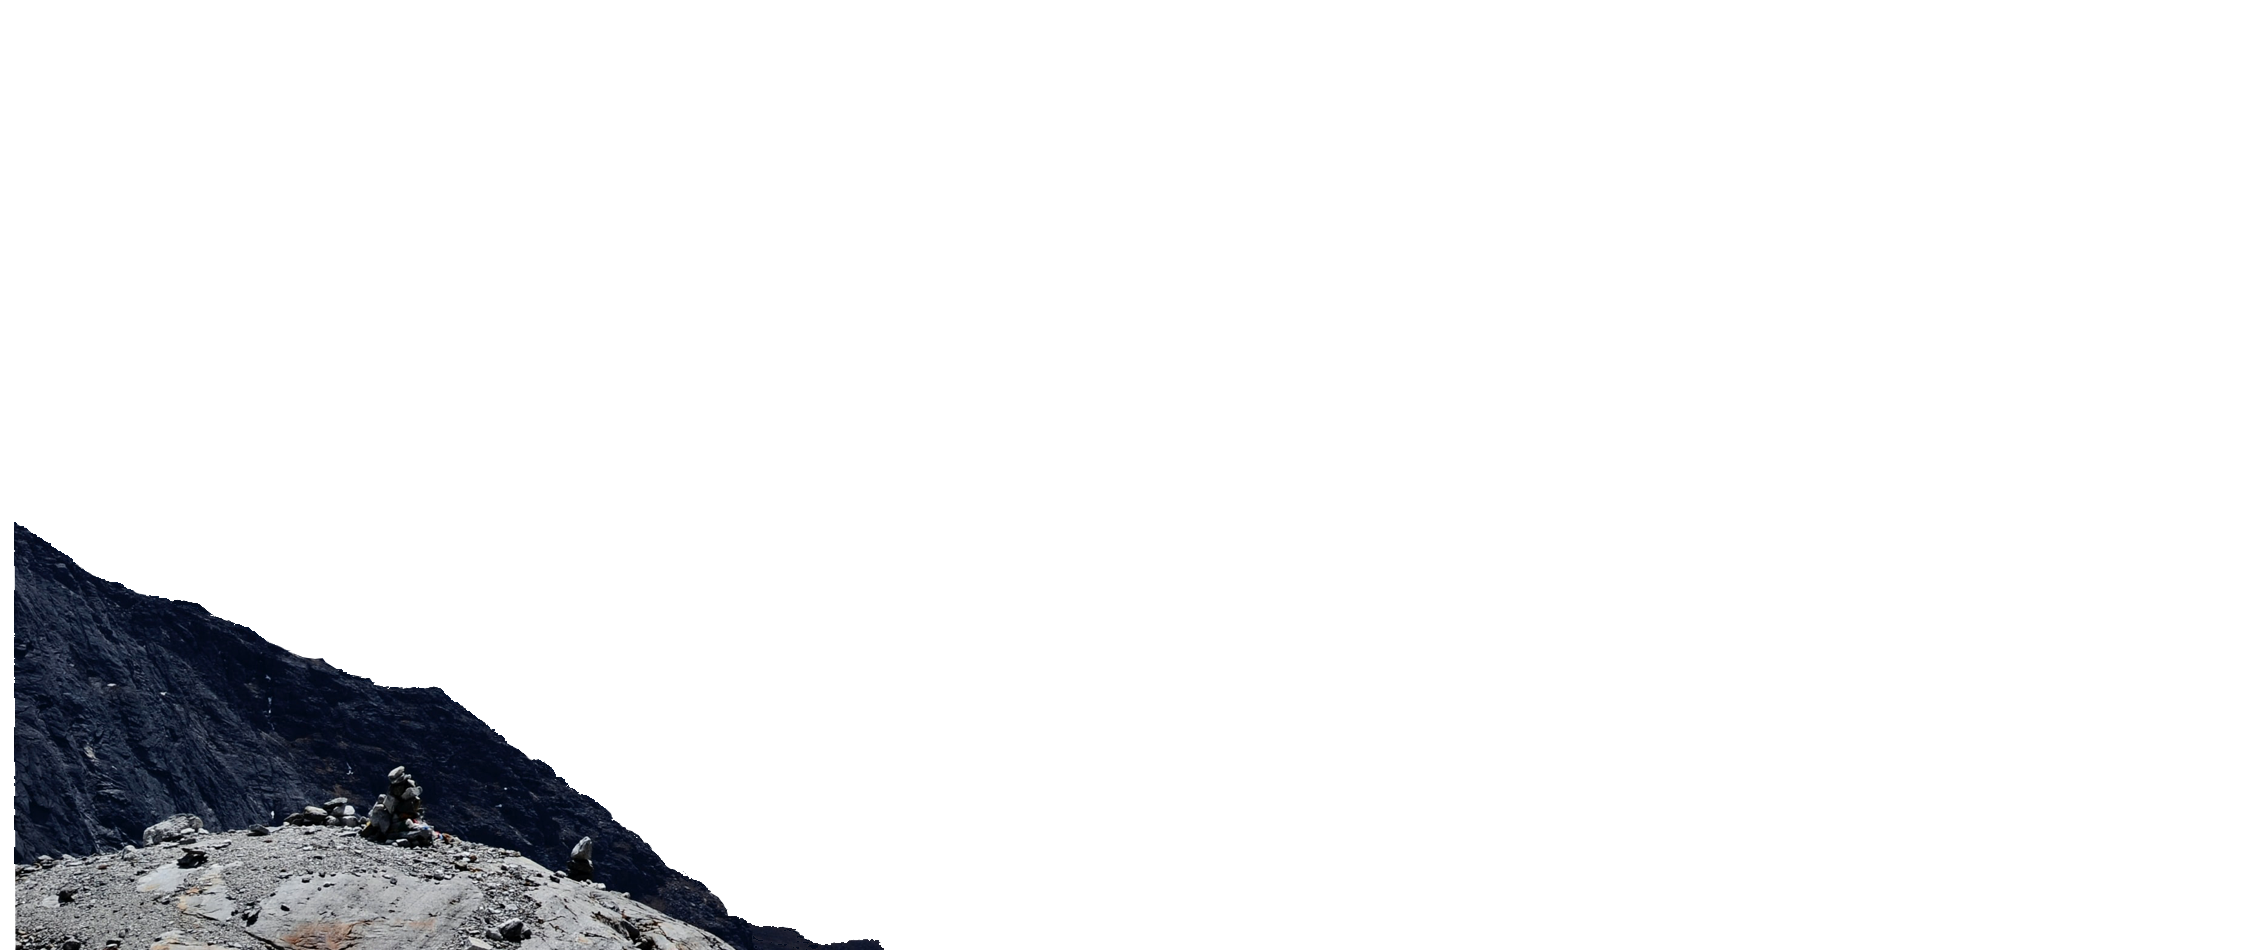
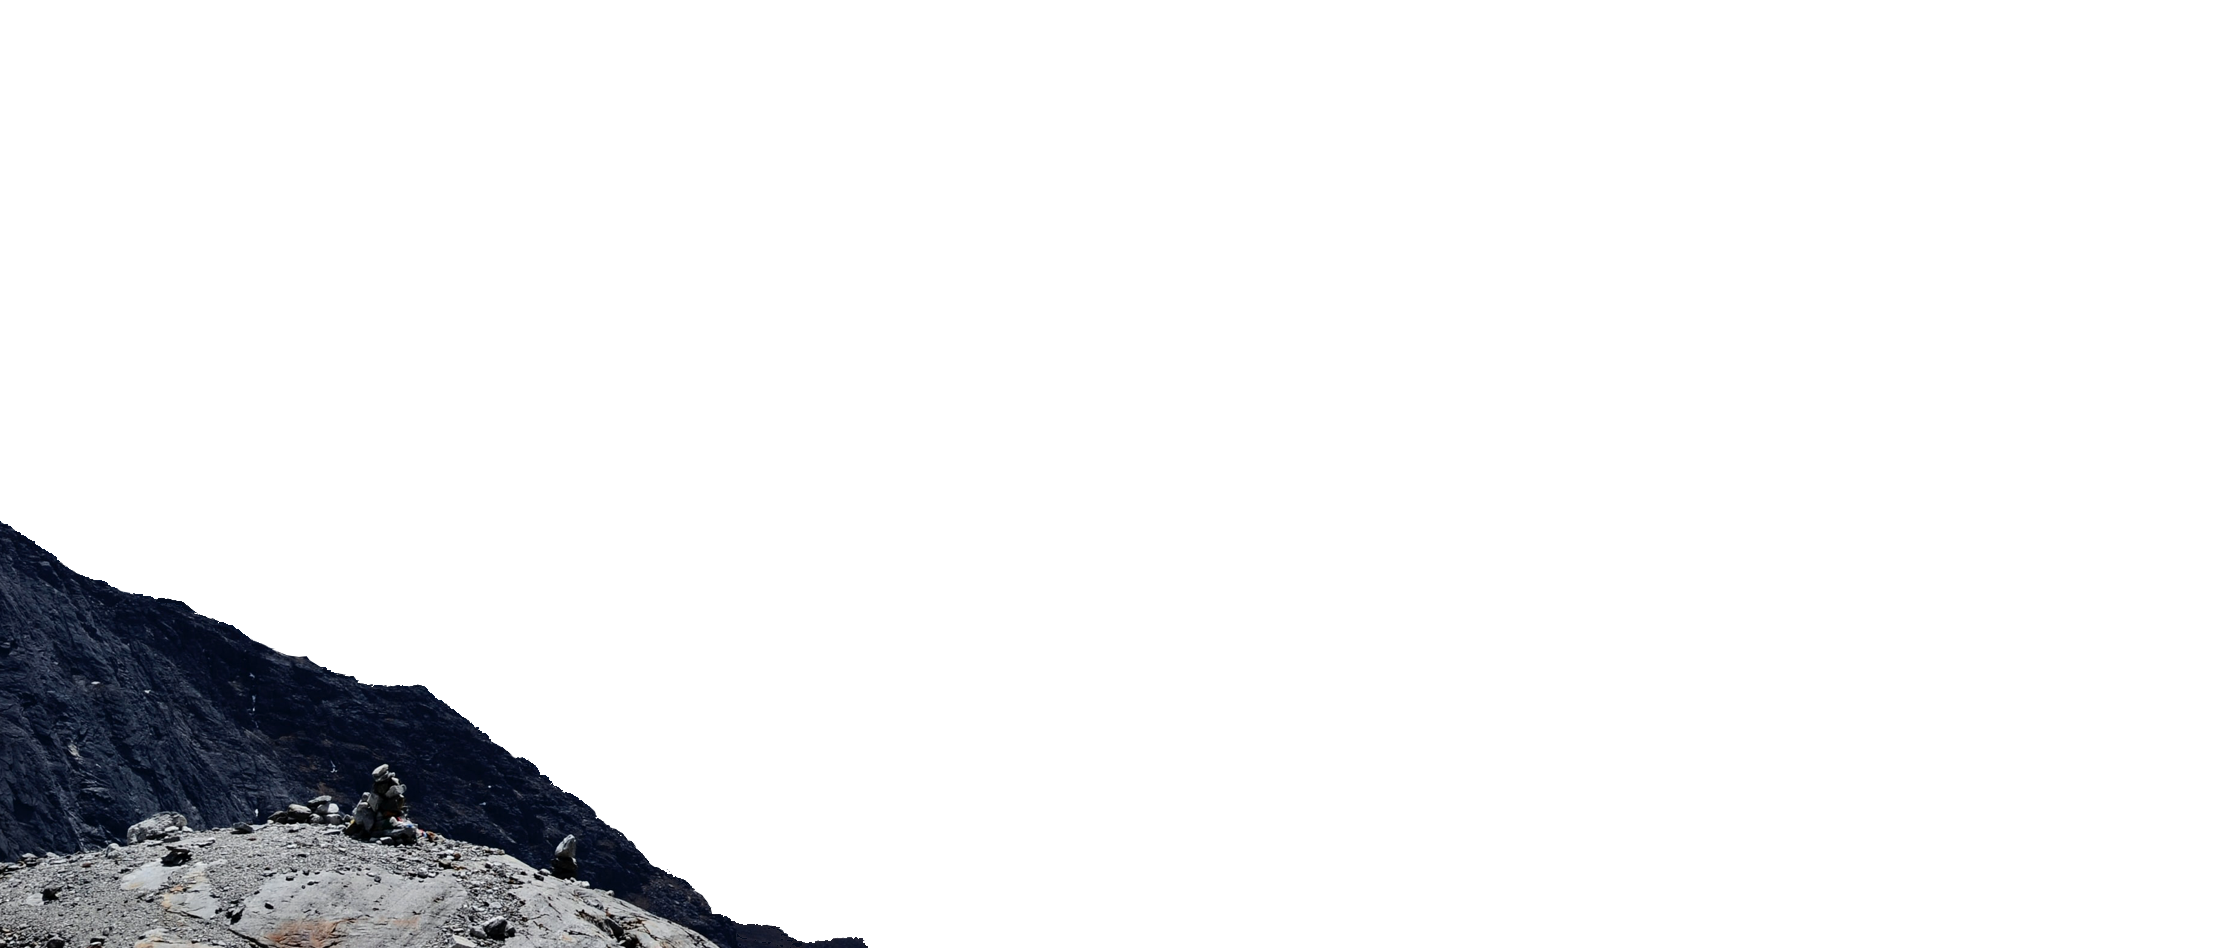
add changes to mountains and contact form

Changed region(s): [[0.0, 0.5506, 0.4006, 1.0]]

diff --git a/js/contact.js b/js/contact.js
@@ -1,69 +1,194 @@
-const windowWidth = window.innerWidth;
+// const windowWidth = window.innerWidth;
 
-const largerScreen = windowWidth > 2500;
+// const largerScreen = windowWidth > 2500;
 
-if (largerScreen) {
-  const tlConLarger = gsap.timeline({
-    scrollTrigger: {
-      trigger: "#contact",
-      scrub: true,
-      pin: true,
-      start: "top top",
-      end: "+=100%",
-    },
-  });
+// if (largerScreen) {
+//   const tlConLarger = gsap.timeline({
+//     scrollTrigger: {
+//       trigger: "#contact",
+//       scrub: true,
+//       pin: true,
+//       start: "top top",
+//       end: "+=100%",
+//     },
+//   });
 
-  tlConLarger.fromTo(".mountain1", { x: 2000, y: 300, autoAlpha: 1 }, { x: 152, y: 245, autoAlpha: 1, duration: 1 }, 0)
-    .fromTo(".mountain2", { x: -2500, y: 300, autoAlpha: 1 }, { x: -170, y: 245, autoAlpha: 1, duration: 1 }, 0)
-    .fromTo(".mountain3", { x: 2000, y: 300, autoAlpha: 1 }, { x: 152, y: 245, autoAlpha: 1, duration: 1 }, 1)
-    .fromTo(".mountain4", { x: 0, y: 1800, autoAlpha: 1 }, { x: 0, y: 245, autoAlpha: 1, duration: 1.5 }, 2)
-    .fromTo(".cardCon", { x: 0, y: 1500, autoAlpha: 1 }, { x: 0, y: 0, autoAlpha: 1, duration: 1.5 }, 3);
-} else {
-  const tlConSmaller = gsap.timeline({
-    scrollTrigger: {
-      trigger: "#contact",
-      scrub: true,
-      pin: true,
-      start: "top top",
-      end: "+=100%",
-    },
-  });
+//   tlConLarger.fromTo(".mountain1", { x: 2000, y: 300, autoAlpha: 1 }, { x: 152, y: 245, autoAlpha: 1, duration: 1 }, 0)
+//     .fromTo(".mountain2", { x: -2500, y: 300, autoAlpha: 1 }, { x: -170, y: 245, autoAlpha: 1, duration: 1 }, 0)
+//     .fromTo(".mountain3", { x: 2000, y: 300, autoAlpha: 1 }, { x: 152, y: 245, autoAlpha: 1, duration: 1 }, 1)
+//     .fromTo(".mountain4", { x: 0, y: 1800, autoAlpha: 1 }, { x: 0, y: 245, autoAlpha: 1, duration: 1.5 }, 2)
+//     .fromTo(".cardCon", { x: 0, y: 1500, autoAlpha: 1 }, { x: 0, y: 0, autoAlpha: 1, duration: 1.5 }, 3);
+// } else {
+//   const tlConSmaller = gsap.timeline({
+//     scrollTrigger: {
+//       trigger: "#contact",
+//       scrub: true,
+//       pin: true,
+//       start: "top top",
+//       end: "+=100%",
+//     },
+//   });
 
-  tlConSmaller.fromTo(".mountain1", { x: 1000, y: 150, autoAlpha: 1 }, { x: 0, y: 0, autoAlpha: 1, duration: 1 }, 0)
-    .fromTo(".mountain2", { x: -1500, y: 150, autoAlpha: 1 }, { x: 0, y: 0, autoAlpha: 1, duration: 1 }, 0)
-    .fromTo(".mountain3", { x: 1000, y: 150, autoAlpha: 1 }, { x: 0, y: 0, autoAlpha: 1, duration: 1 }, 1)
-    .fromTo(".mountain4", { x: 0, y: 1200, autoAlpha: 1 }, { x: 0, y: 0, autoAlpha: 1, duration: 1.5 }, 2)
-    .fromTo(".cardCon", { x: 0, y: 1000, autoAlpha: 1 }, { x: 0, y: 0, autoAlpha: 1, duration: 1.5 }, 3);
-}
+//   tlConSmaller.fromTo(".mountain1", { x: 1000, y: 150, autoAlpha: 1 }, { x: 0, y: 0, autoAlpha: 1, duration: 1 }, 0)
+//     .fromTo(".mountain2", { x: -1500, y: 150, autoAlpha: 1 }, { x: 0, y: 0, autoAlpha: 1, duration: 1 }, 0)
+//     .fromTo(".mountain3", { x: 1000, y: 150, autoAlpha: 1 }, { x: 0, y: 0, autoAlpha: 1, duration: 1 }, 1)
+//     .fromTo(".mountain4", { x: 0, y: 1200, autoAlpha: 1 }, { x: 0, y: 0, autoAlpha: 1, duration: 1.5 }, 2)
+//     .fromTo(".cardCon", { x: 0, y: 1000, autoAlpha: 1 }, { x: 0, y: 0, autoAlpha: 1, duration: 1.5 }, 3);
+// }
+
+const tlCon = gsap.timeline({
+  scrollTrigger: {
+    trigger: "#contact",
+    scrub: true,
+    pin: true,
+    start: "top top",
+    end: "+=100%",
+  },
+});
+
+tlCon.fromTo(".mountain2", { x: -1000, y: 150, autoAlpha: 1 }, { x: 0, y: 0, autoAlpha: 1, duration: 1 }, 0)
+  .fromTo(".mountain1", { x: 1000, y: 150, autoAlpha: 1 }, { x: 0, y: 0, autoAlpha: 1, duration: 1 }, 0)
+  .fromTo(".mountain3", { x: 1000, y: 150, autoAlpha: 1 }, { x: 0, y: 0, autoAlpha: 1, duration: 1 }, 1)
+  .fromTo(".mountain4", { x: 0, y: 1200, autoAlpha: 1 }, { x: 0, y: 245, autoAlpha: 1, duration: 1.5 }, 2)
+  .fromTo(".cardCon", { x: 0, y: 1000, autoAlpha: 1 }, { x: 0, y: 0, autoAlpha: 1, duration: 1.5 }, 3);
+
 
 function sendEmail() {
-  const name = document.getElementById("flname").value;
-  const email = document.getElementById("email").value;
-  const message = document.getElementById("message").value;
+  const name = document.getElementById("flname").value.trim();
+  const email = document.getElementById("email").value.trim();
+  const message = document.getElementById("message").value.trim();
 
   // send email
   emailjs.send("service_n24zpgf", "template_t0u589q", {
     from_name: name,
     from_email: email,
     message: message
-  },"lkTiNeBJnYgig71GS")
-  .then(function(response) {
-    console.log("Email sent successfully!", response.status, response.text);
-    // show success message and clear form
-    alert("Your message has been sent. Thank you!");
-    document.getElementById("flname").value = "";
-    document.getElementById("email").value = "";
-    document.getElementById("message").value = "";
-  }, function(error) {
-    console.error("Email failed to send.", error);
-    // show error message
-    alert("Sorry, there was a problem sending your message. Please try again later.");
-  });
+  }, "lkTiNeBJnYgig71GS")
+    .then(function (response) {
+      console.log("Email sent successfully!", response.status, response.text);
+      // show success message and clear form
+      alert("Your message has been sent. Thank you!");
+      document.getElementById("flname").value = "";
+      document.getElementById("email").value = "";
+      document.getElementById("message").value = "";
+
+      // remove validation classes
+      document.getElementById("flname").classList.remove("red", "green");
+      document.getElementById("email").classList.remove("red", "green");
+      document.getElementById("message").classList.remove("red", "green");
+    }, function (error) {
+      console.error("Email failed to send.", error);
+      // show error message
+      alert("Sorry, there was a problem sending your message. Please try again later.");
+    });
 }
+
+
+
+function validateName() {
+  const name = document.getElementById("flname");
+  if (name.value == "") {
+    name.classList.add("red");
+    name.classList.remove("green");
+  } else {
+    name.classList.remove("red");
+    name.classList.add("green");
+  }
+}
+
+function validateEmail() {
+  const email = document.getElementById("email");
+  const emailRegex = /\S+@\S+\.\S+/;
+  if (!emailRegex.test(email.value)) {
+    email.classList.add("red");
+    email.classList.remove("green");
+  } else {
+    email.classList.remove("red");
+    email.classList.add("green");
+  }
+}
+
+function validateMessage() {
+  const message = document.getElementById("message");
+  if (message.value == "") {
+    message.classList.add("red");
+    message.classList.remove("green");
+  } else {
+    message.classList.remove("red");
+    message.classList.add("green");
+  }
+}
+
+function validateForm() {
+  // Get form values
+  const name = document.getElementById("flname");
+  const email = document.getElementById("email");
+  const message = document.getElementById("message");
+  
+  // Validate name
+  if (name.value.trim().length < 2 || name.value.trim()[0] === " ") {
+    name.classList.add("red");
+    name.classList.remove("green");
+    return false;
+  } else {
+    name.classList.remove("red");
+    name.classList.add("green");
+  }
+  
+  // Validate email format
+  const emailRegex = /\S+@\S+\.\S+/;
+  if (!emailRegex.test(email.value.trim())) {
+    email.classList.add("red");
+    email.classList.remove("green");
+    return false;
+  } else {
+    email.classList.remove("red");
+    email.classList.add("green");
+  }
+
+  // Validate message
+  if (message.value.trim() === "") {
+    message.classList.add("red");
+    message.classList.remove("green");
+    return false;
+  } else {
+    message.classList.remove("red");
+    message.classList.add("green");
+  }
+  
+  return true;
+}
+
+
+// add event listeners to input elements for shake animation
+const inputs = document.querySelectorAll("input, textarea");
+inputs.forEach((input) => {
+  input.addEventListener("animationend", function () {
+    input.classList.remove("shake");
+  });
+});
+
+// add event listeners to input elements for validation
+inputs.forEach((input) => {
+  input.addEventListener("blur", validateForm);
+  input.addEventListener("input", function () {
+    input.classList.remove("red");
+    input.classList.remove("green");
+    input.classList.remove("shake");
+  });
+});
+
+
+// add event listeners to input fields
+document.getElementById("flname").addEventListener("input", validateName);
+document.getElementById("email").addEventListener("input", validateEmail);
+document.getElementById("message").addEventListener("input", validateMessage);
 
 // add event listener to form submit event
 const form = document.querySelector("form");
 form.addEventListener("submit", function(event) {
   event.preventDefault(); // prevent form from submitting normally
-  sendEmail(); // call sendEmail function to send the email
+  if (validateForm()) {
+    sendEmail(); // call sendEmail function to send the email if the form is valid
+  }
 });

diff --git a/styles.css b/styles.css
@@ -59,6 +59,7 @@ body {
     margin: 0;
     overflow-x: hidden;
     background-color: black !important;
+    height: auto;
   }
 
 html, body {
@@ -854,30 +855,41 @@ hr {
     height: 100vh;
 }
 
-.mountain1,.mountain2{
+.mountain1{
   position: absolute;
-  z-index: 1;
+  z-index: 2;
+  bottom: 0;
+  right:0
+}
+.mountain2{
+  position: absolute;
+  z-index: 2;
+  bottom: 0;
+  left:0
 }
 
 .mountain3{
   position: absolute;
-  z-index: -1;
+  z-index: 1;
+  bottom: 0;
+  right:0
 }
 
 .mountain4{
   position: absolute;
-
-  z-index: -2;
+  bottom:0
 }
 
 @media screen and (min-width: 2230px){
   .mountain4{
-    transform: scale(1.169);
+    transform: scale(1.3);
+    bottom: 12vh;
   }
 }
 
 #contact {
   position: relative;
+  height: 100vh;
 }
 
 .cardCon {
@@ -969,5 +981,45 @@ input, #message {
   90% { transform: translate(-1px, 1px); }
   100% { transform: translate(0, 0); }
 }
+.red {
+  border: 2px solid red;
+}
 
+.green {
+  border: 2px solid green;
+}
 
+input.invalid, textarea.invalid {
+  border-color: red;
+}
+
+input.valid, textarea.valid {
+  border-color: green;
+}
+
+input.shake, textarea.shake {
+  animation: shake 0.5s;
+}
+
+@keyframes shake {
+  0% {
+    transform: translateX(0);
+  }
+  25% {
+    transform: translateX(-0.5rem);
+  }
+  50% {
+    transform: translateX(0.5rem);
+  }
+  75% {
+    transform: translateX(-0.5rem);
+  }
+  100% {
+    transform: translateX(0);
+  }
+}
+
+input:focus,
+textarea:focus {
+  outline: none;
+}

diff --git a/js/nav.js b/js/nav.js
@@ -10,7 +10,6 @@ const nav = document.querySelector('.navbar');
     about.style.color="white";
     proj.style.color="white";
     con.style.color="white";
-  console.log(top);
     if(top < 999){
       nav.style.backgroundColor = "transparent";
       home.style.color="#FF6D00";

diff --git a/index.html b/index.html
@@ -31,7 +31,7 @@
     <section id="threeD">
       
       <div id="heart"></div>
-       <canvas id="canvas3d"></canvas>
+       <!-- <canvas id="canvas3d"></canvas> -->
       <div class="box1">
         W-Forward
         S-Backward <br>
